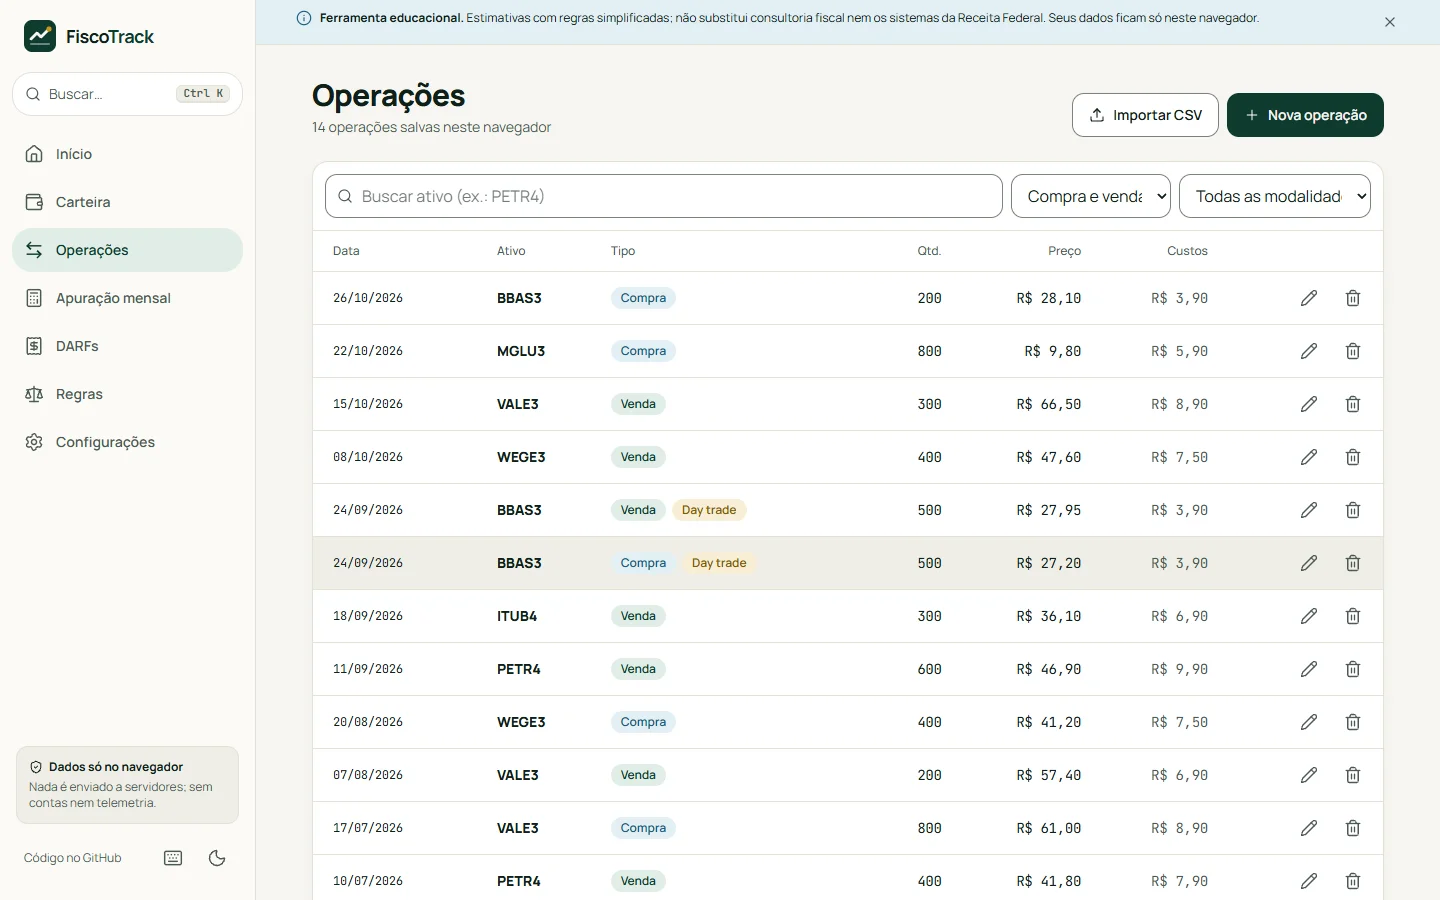
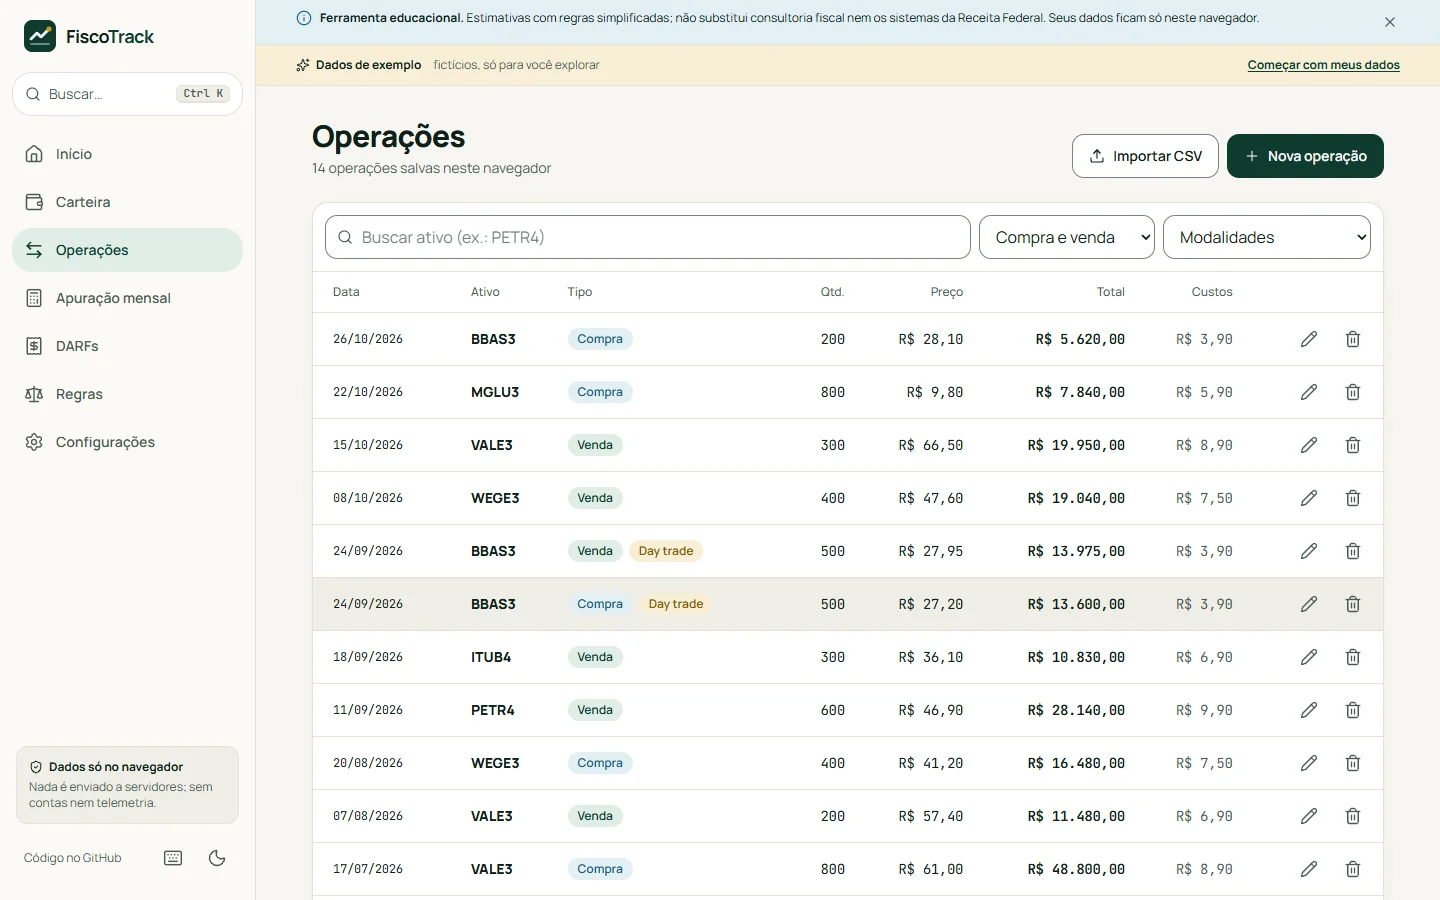
test: extend E2E (import, backup, empty state, dialogs), refresh prints, README and ADR 0008

diff --git a/apps/web/e2e/fluxos.spec.ts b/apps/web/e2e/fluxos.spec.ts
@@ -1,5 +1,6 @@
 import AxeBuilder from '@axe-core/playwright';
 import { expect, test, type Page } from '@playwright/test';
+import { readFileSync } from 'node:fs';
 
 const ROUTES = [
   ['início', '#/'],
@@ -13,14 +14,39 @@ const ROUTES = [
   ['configurações', '#/config'],
 ] as const;
 
-async function loadExample(page: Page) {
+const BROKER_CSV = [
+  'Data da operação;Ativo;C/V;Qtd;Preço unitário',
+  '12/01/2026;ABEV3;C;1.000;31,40',
+  '19/01/2026;ABEV3;X;100;33,10',
+].join('\n');
+
+/** Primeira visita: o exemplo carrega sozinho. */
+async function openWithExample(page: Page) {
   await page.goto('./');
-  await page.getByRole('button', { name: 'Carregar exemplo' }).click();
   await expect(page.getByRole('region', { name: 'Próximo DARF' })).toBeVisible();
   await page.getByRole('button', { name: 'Fechar aviso' }).click();
 }
 
+async function gotoRoute(page: Page, hash: string) {
+  await page.goto(`./${hash}`);
+  await expect(page.getByRole('heading', { level: 1 })).toBeVisible();
+}
+
+/** Espera as animações de entrada terminarem: o axe mede contraste com opacidade parcial. */
+async function settle(page: Page) {
+  await page.waitForFunction(() =>
+    document
+      .getAnimations()
+      .every(
+        (animation) =>
+          animation.effect?.getTiming().iterations === Infinity ||
+          animation.playState !== 'running',
+      ),
+  );
+}
+
 async function expectNoAxeViolations(page: Page) {
+  await settle(page);
   const results = await new AxeBuilder({ page })
     .withTags(['wcag2a', 'wcag2aa', 'wcag21aa', 'wcag22aa'])
     .analyze();
@@ -31,23 +57,37 @@ async function expectNoAxeViolations(page: Page) {
   ).toEqual([]);
 }
 
-test('primeira visita: exemplo em um clique, DARF pago e dados persistem após recarregar', async ({
+test('primeira visita: exemplo automático com selo, DARF pago e dados persistem ao recarregar', async ({
   page,
 }) => {
-  await loadExample(page);
+  await openWithExample(page);
+  await expect(page.getByRole('region', { name: 'Dados de exemplo' })).toBeVisible();
   await page.getByRole('button', { name: 'Marcar como pago' }).click();
   await expect(page.getByText(/marcado como pago/)).toBeVisible();
   await page.reload();
   await expect(page.getByRole('region', { name: 'Próximo DARF' })).toBeVisible();
-  await page.goto('./#/darfs');
+  await gotoRoute(page, '#/darfs');
   await expect(page.getByText('Pago').first()).toBeVisible();
 });
 
+test('"Começar com meus dados" remove o exemplo e ele não volta ao recarregar', async ({
+  page,
+}) => {
+  await openWithExample(page);
+  await page.getByRole('button', { name: 'Começar com meus dados' }).click();
+  await page.getByRole('button', { name: 'Remover exemplo' }).click();
+  await expect(page.getByText('Nenhuma operação ainda')).toBeVisible();
+  await page.reload();
+  await expect(page.getByText('Nenhuma operação ainda')).toBeVisible();
+  await expect(page.getByRole('region', { name: 'Dados de exemplo' })).toBeHidden();
+});
+
 test('operações: criar, editar, excluir e desfazer', async ({ page }) => {
-  await loadExample(page);
-  await page.goto('./#/operacoes');
+  await openWithExample(page);
+  await gotoRoute(page, '#/operacoes');
   await page.getByRole('button', { name: 'Nova operação' }).click();
   const dialog = page.getByRole('dialog', { name: 'Nova operação' });
+  await expect(dialog.getByLabel('Data')).toBeFocused();
   await dialog.getByLabel('Data').fill('2026-01-12');
   await dialog.getByLabel('Ativo (ticker)').fill('ABEV3');
   await dialog.getByLabel('Quantidade').fill('100');
@@ -76,12 +116,56 @@ test('operações: criar, editar, excluir e desfazer', async ({ page }) => {
   ).toBeVisible();
 });
 
+test('importação: mapeia colunas, corrige a linha com erro e importa', async ({ page }) => {
+  await openWithExample(page);
+  await gotoRoute(page, '#/importar');
+  await page.getByLabel('Arquivo CSV').setInputFiles({
+    name: 'corretora.csv',
+    mimeType: 'text/csv',
+    buffer: Buffer.from(BROKER_CSV),
+  });
+  await expect(page.getByText(/Revise a prévia/)).toBeVisible();
+  await page.getByLabel('Corrigir a linha 3').fill('19/01/2026;ABEV3;V;100;33,10');
+  await expect(page.getByText(/2 operações prontas/)).toBeVisible();
+  await page.getByRole('button', { name: 'Importar 2 operações' }).click();
+  await expect(page.getByText('2 operações importadas')).toBeVisible();
+  await gotoRoute(page, '#/operacoes');
+  await page.getByLabel('Buscar por ativo').fill('ABEV3');
+  await expect(page.getByText(/de 2 operações/)).toBeVisible();
+});
+
+test('backup: exporta, apaga tudo com confirmação e restaura com confirmação', async ({
+  page,
+}, testInfo) => {
+  await openWithExample(page);
+  await gotoRoute(page, '#/config');
+  const download = page.waitForEvent('download');
+  await page.getByRole('button', { name: 'Exportar backup' }).click();
+  const file = testInfo.outputPath('backup.json');
+  await (await download).saveAs(file);
+
+  await page.getByRole('button', { name: 'Apagar todos os dados' }).click();
+  await page.getByRole('button', { name: 'Apagar tudo' }).click();
+  await expect(page.getByText('Dados apagados deste navegador.')).toBeVisible();
+
+  await page.getByLabel('Arquivo de backup').setInputFiles({
+    name: 'backup.json',
+    mimeType: 'application/json',
+    buffer: readFileSync(file),
+  });
+  const dialog = page.getByRole('dialog', { name: 'Restaurar este backup?' });
+  await expect(dialog).toContainText('substitui 0 operações');
+  await dialog.getByRole('button', { name: 'Substituir dados' }).click();
+  await expect(page.getByText(/Backup restaurado: 14 operações/)).toBeVisible();
+});
+
 test('paleta de comandos e atalhos de teclado', async ({ page, isMobile }) => {
   test.skip(isMobile, 'atalhos de teclado são de desktop');
-  await loadExample(page);
+  await openWithExample(page);
   await page.keyboard.press('Control+k');
   const palette = page.getByRole('dialog', { name: 'Paleta de comandos' });
-  await palette.getByRole('combobox').fill('apura');
+  await expect(palette.getByRole('combobox')).toBeFocused();
+  await page.keyboard.type('apura');
   await page.keyboard.press('Enter');
   await expect(page).toHaveURL(/#\/apuracao$/);
   await page.keyboard.press('g');
@@ -93,12 +177,28 @@ test('paleta de comandos e atalhos de teclado', async ({ page, isMobile }) => {
   await expect(page.getByRole('dialog', { name: 'Atalhos de teclado' })).toBeHidden();
 });
 
+test('celular: DARFs na barra inferior e menu do header com Configurações', async ({
+  page,
+  isMobile,
+}) => {
+  test.skip(!isMobile, 'só no celular');
+  await openWithExample(page);
+  await page
+    .getByRole('navigation', { name: 'Principal' })
+    .getByRole('link', { name: 'DARFs' })
+    .click();
+  await expect(page).toHaveURL(/#\/darfs$/);
+  await page.getByRole('button', { name: /Menu: importar/ }).click();
+  await page.getByRole('link', { name: /Configurações/ }).click();
+  await expect(page).toHaveURL(/#\/config$/);
+});
+
 test('rota interna recarrega e o botão voltar funciona', async ({ page }) => {
-  await loadExample(page);
-  await page.goto('./#/regras');
+  await openWithExample(page);
+  await gotoRoute(page, '#/regras');
   await page.reload();
   await expect(page.getByRole('heading', { name: 'Regras e premissas' })).toBeVisible();
-  await page.goto('./#/config');
+  await gotoRoute(page, '#/config');
   await page.goBack();
   await expect(page.getByRole('heading', { name: 'Regras e premissas' })).toBeVisible();
 });
@@ -106,11 +206,35 @@ test('rota interna recarrega e o botão voltar funciona', async ({ page }) => {
 for (const theme of ['light', 'dark'] as const) {
   test(`acessibilidade (axe) em todas as telas, tema ${theme}`, async ({ page }) => {
     await page.emulateMedia({ colorScheme: theme });
-    await loadExample(page);
+    await openWithExample(page);
     for (const [, hash] of ROUTES) {
-      await page.goto(`./${hash}`);
-      await page.waitForTimeout(900);
+      await gotoRoute(page, hash);
       await expectNoAxeViolations(page);
     }
+  });
+
+  test(`acessibilidade (axe) com diálogo aberto e estado vazio, tema ${theme}`, async ({
+    page,
+    isMobile,
+  }) => {
+    await page.emulateMedia({ colorScheme: theme });
+    await openWithExample(page);
+    await gotoRoute(page, '#/operacoes');
+    await page.getByRole('button', { name: 'Nova operação' }).click();
+    await expect(page.getByRole('dialog', { name: 'Nova operação' })).toBeVisible();
+    await expectNoAxeViolations(page);
+    await page.keyboard.press('Escape');
+    if (!isMobile) {
+      await page.keyboard.press('Control+k');
+      await expect(page.getByRole('dialog', { name: 'Paleta de comandos' })).toBeVisible();
+      await expectNoAxeViolations(page);
+      await page.keyboard.press('Escape');
+    }
+    await gotoRoute(page, '#/config');
+    await page.getByRole('button', { name: 'Apagar todos os dados' }).click();
+    await page.getByRole('button', { name: 'Apagar tudo' }).click();
+    await gotoRoute(page, '#/');
+    await expect(page.getByText('Nenhuma operação ainda')).toBeVisible();
+    await expectNoAxeViolations(page);
   });
 }

diff --git a/README.md b/README.md
@@ -44,6 +44,13 @@ No celular (390x844):
   apagar dados.
 - **Produtividade:** paleta de comandos (`Ctrl/⌘ K`), atalhos de teclado (`?` lista todos:
   `G` + letra navega, `N` cria operação).
+- **Primeira visita:** abre com dados de exemplo (fictícios), com selo "Dados de exemplo" e a saída
+  "Começar com meus dados" (confirma e permite desfazer). Quem apagou tudo de propósito não recebe o
+  exemplo de novo.
+- **Robustez:** operações do mesmo dia seguem a ordem de criação (`seq`); importação com CSV no padrão
+  RFC 4180, milhar na quantidade, detecção de repetidas e ids determinísticos; falhas de gravação
+  avisam o que fazer; backup validado e confirmado antes de restaurar; sincronização entre abas;
+  `ErrorBoundary` com "Recarregar" e "Exportar backup"; lembrete de backup e uso de espaço.
 - **Dados locais** (IndexedDB). Nada é enviado a servidores; sem contas e sem telemetria.
 
 ## Identidade visual e acessibilidade
@@ -122,7 +129,8 @@ ADRs: [motor puro](docs/adr/0001-motor-de-calculo-puro.md) ·
 [CSV com erros por linha](docs/adr/0004-importacao-csv-com-erros-por-linha.md) ·
 [identidade visual própria](docs/adr/0005-identidade-visual-propria.md) ·
 [E2E com axe](docs/adr/0006-e2e-com-axe-e-build-portatil.md) ·
-[dados derivados e DARF pago](docs/adr/0007-dados-derivados-e-darf-pago.md)
+[dados derivados e DARF pago](docs/adr/0007-dados-derivados-e-darf-pago.md) ·
+[ordem estável, ids determinísticos e escritas seguras](docs/adr/0008-ordem-estavel-ids-deterministicos-e-escritas-seguras.md)
 
 ## Como rodar
 
@@ -163,14 +171,14 @@ mapeamento antes de importar.
 
 ## Testes e desempenho
 
-| Verificação                              | Resultado                                                                                                       |
-| ---------------------------------------- | --------------------------------------------------------------------------------------------------------------- |
-| Testes do motor (Vitest, table-driven)   | 71 passando                                                                                                     |
-| Testes da web (Vitest + Testing Library) | 52 passando: domínio (DARF, carteira, backup, mapeamento de CSV, exemplo, formatação) e fluxos de interface     |
-| E2E (Playwright, desktop e celular)      | 12 cenários: fluxos críticos, rota interna, voltar do navegador e axe em todas as telas nos dois temas          |
-| Acessibilidade (axe, WCAG 2.2 AA)        | 0 violações nas 9 telas, tema claro e escuro, em 390 e 1440 px                                                  |
-| Contraste (scripts/contrast.mjs)         | 38 pares aprovados (texto ≥ 4,5:1; interface ≥ 3:1)                                                             |
-| Bundle inicial (build portátil)          | JS 410 kB (132 kB gzip) e CSS 45 kB (13 kB gzip); gráficos (Recharts, ~412 kB) e cada tela carregam sob demanda |
+| Verificação                              | Resultado                                                                                                                                                                                   |
+| ---------------------------------------- | ------------------------------------------------------------------------------------------------------------------------------------------------------------------------------------------- |
+| Testes do motor (Vitest, table-driven)   | 73 passando                                                                                                                                                                                 |
+| Testes da web (Vitest + Testing Library) | 107 passando: domínio (DARF, carteira, backup, mapeamento de CSV, exemplo, formatação) e fluxos de interface                                                                                |
+| E2E (Playwright, desktop e celular)      | 24 execuções (12 cenários em desktop e celular): primeira visita, CRUD com desfazer, importação, backup, paleta, rota interna e axe em todas as telas, com diálogo aberto e no estado vazio |
+| Acessibilidade (axe, WCAG 2.2 AA)        | 0 violações nas 9 telas, tema claro e escuro, em 390 e 1440 px                                                                                                                              |
+| Contraste (scripts/contrast.mjs)         | 38 pares aprovados (texto ≥ 4,5:1; interface ≥ 3:1)                                                                                                                                         |
+| Bundle inicial (build portátil)          | JS 430 kB (140 kB gzip) e CSS 49 kB (14 kB gzip); gráficos (Recharts, ~412 kB) e cada tela carregam sob demanda                                                                             |
 
 Casos do motor: zero operações, somente compras, custos de compra e venda, isenção (abaixo, exatamente
 no limite e um centavo acima), prejuízo acumulado e compensação, day trade separado de operações

diff --git a/docs/adr/0008-ordem-estavel-ids-deterministicos-e-escritas-seguras.md b/docs/adr/0008-ordem-estavel-ids-deterministicos-e-escritas-seguras.md
@@ -1,0 +1,23 @@
+# ADR 0008: ordem estável no mesmo dia, ids determinísticos e escritas que não falham em silêncio
+
+**Status:** aceita (resposta à revisão independente)
+
+## Decisões
+
+- **Ordem no mesmo dia.** `Operation` ganhou o campo opcional `seq` (sequência de criação). O motor
+  exporta `sortOperations` (data, depois `seq`, depois ordem de entrada) e a carteira usa a mesma
+  função, para que os dois concordem. Antes, a ordem dependia do id (aleatório) e uma venda podia ser
+  rejeitada por "posição insuficiente" mesmo com a compra do mesmo dia.
+- **Ids de CSV determinísticos.** O id vem de um hash do conteúdo da linha (mais a ocorrência entre
+  linhas idênticas). Importar o mesmo arquivo de novo atualiza as mesmas operações. Além disso, a
+  prévia avisa sobre possíveis repetidas (mesma data, ativo, lado, quantidade e preço) e as ignora
+  por padrão.
+- **Escritas com resposta.** Toda gravação passa por `useRunner`: se falhar, o usuário vê um aviso
+  que diz o que fazer (cota cheia pede backup) e a interface não finge sucesso. Erro de gravação num
+  diálogo aparece dentro dele, sem perder o que foi digitado.
+- **Banco aberto sob demanda.** A abertura do IndexedDB não fica em cache quando falha, e os eventos
+  `blocked`, `blocking` e `terminated` avisam o usuário.
+- **DARF pago guarda o valor.** Se o valor apurado muda, o status volta a pendente com aviso.
+- **Desfazer "apagar tudo" faz merge**, sem apagar o que foi criado depois; o backup é a garantia real.
+- **Dados pedidos ao navegador:** `navigator.storage.persist()` após a primeira gravação, uso de
+  espaço nas Configurações, lembrete de backup e sincronização entre abas (`BroadcastChannel`).
